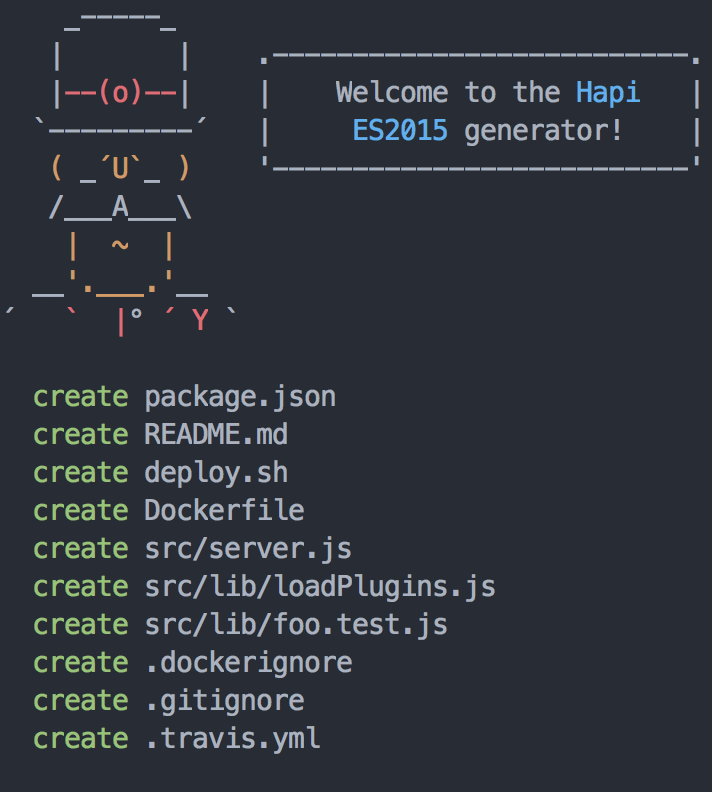
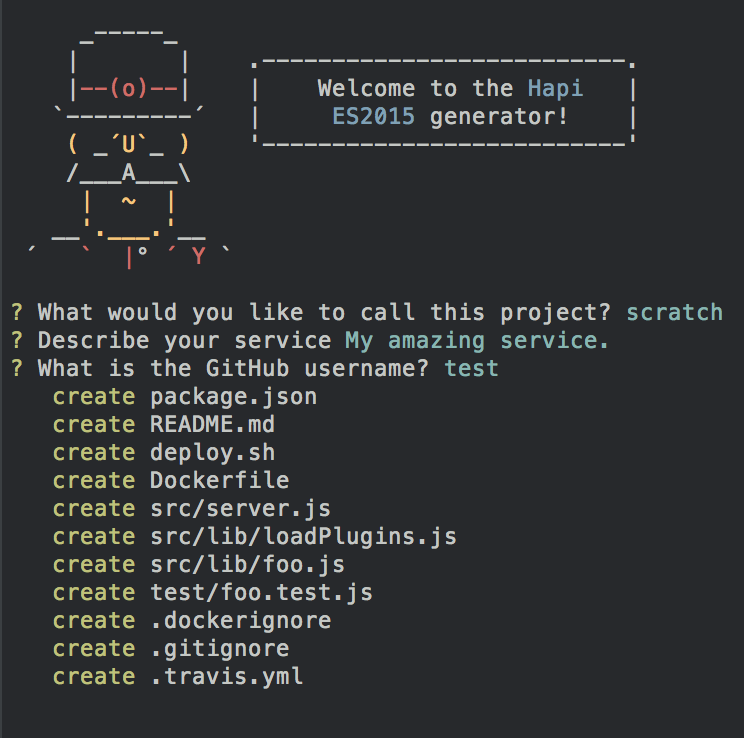
Added coverage, changed testing approach to a separated folder structure for ease of coverage config. Updated readme and npm scripts.

Changed region(s): [[0.0, 0.0, 0.9888, 0.9661], [0.3399, 0.0623, 0.9888, 0.2182]]

diff --git a/app/index.js b/app/index.js
@@ -5,7 +5,7 @@ var _s = require('underscore.string');
 var yeoman = require('yeoman-generator');
 var yosay = require('yosay');
 
-module.exports = yeoman.generators.Base.extend({
+module.exports = yeoman.Base.extend({
   prompting: function () {
     var done = this.async();
 
@@ -65,7 +65,10 @@ module.exports = yeoman.generators.Base.extend({
         interpolate: /<%=([\s\S]+?)%>/g
       });
 
-      this.copy('src/lib/foo.test.js', 'src/lib/foo.test.js');
+      this.copy('src/lib/foo.js', 'src/lib/foo.js');
+    },
+    testFiles: function() {
+      this.directory('test', 'test');
     },
     configFiles: function() {
       this.copy('dockerignore', '.dockerignore');

diff --git a/test.js b/test.js
@@ -25,7 +25,8 @@ describe('generator', function () {
       '.travis.yml',
       'src/server.js',
       'src/lib/loadPlugins.js',
-      'src/lib/foo.test.js',
+      'src/lib/foo.js',
+      'test/foo.test.js',
       'deploy.sh',
       'Dockerfile',
       'package.json',

diff --git a/app/templates/test/foo.test.js b/app/templates/test/foo.test.js
@@ -1,5 +1,5 @@
 import assert from 'assert';
-const foo = () => 'bar';
+import foo from '../src/lib/foo';
 
 describe('lib/foo', () => {
   it('should return bar', () => {

diff --git a/app/templates/src/lib/foo.js b/app/templates/src/lib/foo.js
@@ -1,0 +1,3 @@
+export default function foo() {
+  return 'bar';
+}

diff --git a/readme.md b/readme.md
@@ -48,9 +48,9 @@ a [`jscs`](http://jscs.info/) code style specification. Uses the "airbnb" jscs p
 
 Runs a test of your `src` code using mocha. Tests can be written using es2015 as well.
 
-`$ npm run coverage`
+`$ npm run cov`
 
-Not implemented.
+Produces an istanbul coverage report in the `coverage/` directory.
 
 **Dev Mode**
 
@@ -78,4 +78,5 @@ Starts the es5 server
 
 `$ npm start:dev`
 
-Not implemented.
+Starts a `nodemon` file watcher on the `src/server.js` script. Anytime a file is changed in the project, the server
+will automatically restart itself.
